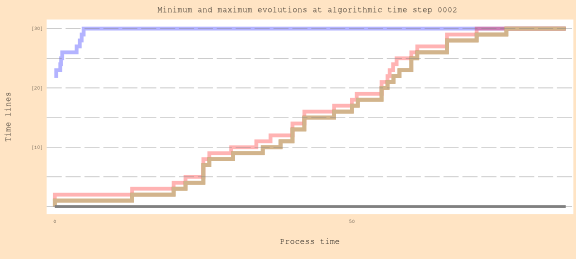
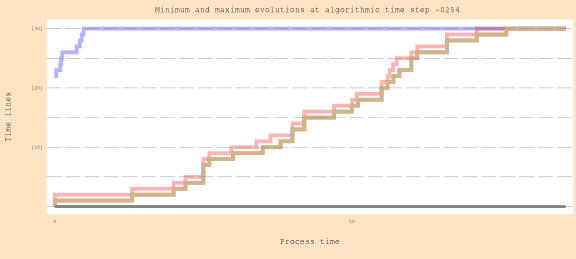
Now ready to puch to Stephen :-)

Changed region(s): [[0.25, 0.0309, 0.8125, 0.0618]]

diff --git a/julia/README.md b/julia/README.md
@@ -54,11 +54,11 @@ make introduction.pdf
   - [ ] Generate code for automatic extension of CFTP.
   - [ ] How to speed up by doing more in memory?!
   - [ ] Previous cycles would be better plotted as greyed out.
-  - [ ] Modify code so times are displayed as negative running up to time 0.
+  - [x] Modify code so times are displayed as negative running up to time 0.
 
-- [ ] `24/02/2024`Move unit tests from `test.qmd` to `EpidemicsCFTP/test`. 
+- [ ] `24/02/2024` Move unit tests from `test.qmd` to `EpidemicsCFTP/test`. 
 
-- [ ] `24/02/2024`Extend `production.qmd` to use more recent code and to cover more figures.
+- [ ] `24/02/2024` Extend `production.qmd` to use more recent code and to cover more figures.
 
 - [ ] `28/04/2024` Generate graphics with `CFTP.qmd` to help validate automatic unit tests.
 
